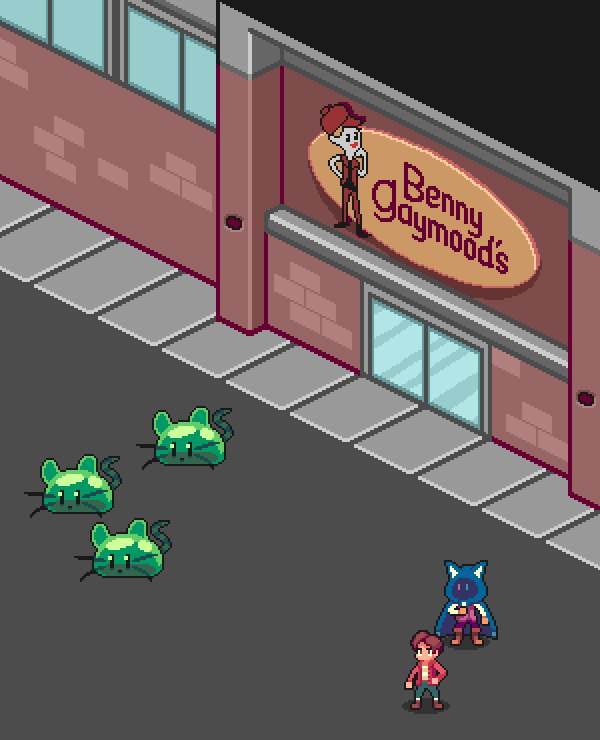
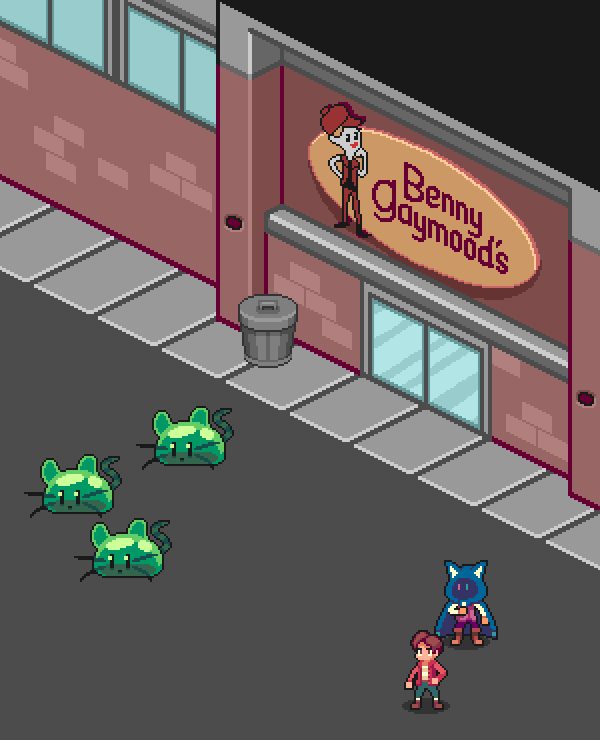
Hotfix and Game Retcon
Adapted some UI features and lines from Webgame 0 to fit lore, and added a trashcan in front of Benny Gaymood's.

Changed region(s): [[0.39, 0.373, 0.54, 0.4973]]

diff --git a/web/apartment/game.html b/web/apartment/game.html
@@ -257,6 +257,9 @@ div .glitch {
 
 
 
+
+
+
 </style><script role="script" id="twine-user-script" type="text/twine-javascript">// TO STORE PERSISTANT VALUES: <<run setup.saveState()>>
 // TO RETRIEVE STORED VALUES: <<set $store to setup.loadMemory#()>>
 
@@ -305,13 +308,17 @@ setup.eraseAll = function () {
 
 
 
+
+
+
 </script><tw-passagedata pid="1" name="EE_Entrance" tags="" position="550,350" size="100,100">&lt;&lt;set $location = passage()&gt;&gt;\
 You &lt;i&gt;assume&lt;/i&gt; you&#39;re standing in an apartment entryway. Unfortunately, it&#39;s too dark in here to make out much detail. To the left is a cramped-looking &lt;&lt;if $noLiving&gt;&gt;&lt;span class=&quot;glitch&quot;&gt;[[&lt;ERROR:NULL_REFERENCE&gt;|NoLiving]]&lt;/span&gt;&lt;&lt;else&gt;&gt;[[&lt;WARP:EE_Living_Room&gt;|EE_Living_Room]]&lt;&lt;/if&gt;&gt;, and to the right a messy &lt;&lt;if $noKitchen&gt;&gt;&lt;span class=&quot;glitch&quot;&gt;[[&lt;ERROR:NULL_REFERENCE&gt;|NoKitchen]]&lt;/span&gt;&lt;&lt;else&gt;&gt;[[&lt;WARP:EE_Kitchen&gt;|EE_Kitchen]]&lt;&lt;/if&gt;&gt;.
 
-Some distance ahead, you can make out the faint outline of a &lt;&lt;if $noHall&gt;&gt;&lt;span class=&quot;glitch&quot;&gt;[[&lt;ERROR:NULL_REFERENCE&gt;|NoHall]]&lt;/span&gt;&lt;&lt;else&gt;&gt;[[&lt;WARP:EE_Dark_Hallway&gt;|EE_Dark_Hallway]]&lt;&lt;/if&gt;&gt;. The &lt;&lt;if $yesExit&gt;&gt;[[&lt;WARP:EE_Exit&gt;|EE_Exit]]&lt;&lt;else&gt;&gt;&lt;span class=&quot;glitch&quot;&gt;[[&lt;ERROR:NULL_REFERENCE&gt;|NoExit]]&lt;/span&gt;&lt;&lt;/if&gt;&gt; is behind you.</tw-passagedata><tw-passagedata pid="2" name="StoryCaption" tags="" position="100,200" size="100,100">Crawl Level: -0
-Crawl State: Explore
+Some distance ahead, you can make out the faint outline of a &lt;&lt;if $noHall&gt;&gt;&lt;span class=&quot;glitch&quot;&gt;[[&lt;ERROR:NULL_REFERENCE&gt;|NoHall]]&lt;/span&gt;&lt;&lt;else&gt;&gt;[[&lt;WARP:EE_Dark_Hallway&gt;|EE_Dark_Hallway]]&lt;&lt;/if&gt;&gt;. The &lt;&lt;if $yesExit&gt;&gt;[[&lt;WARP:EE_Exit&gt;|EE_Exit]]&lt;&lt;else&gt;&gt;&lt;span class=&quot;glitch&quot;&gt;[[&lt;ERROR:NULL_REFERENCE&gt;|NoExit]]&lt;/span&gt;&lt;&lt;/if&gt;&gt; is behind you.</tw-passagedata><tw-passagedata pid="2" name="StoryCaption" tags="" position="100,200" size="100,100">Strytlr: Mystery Box
+State: Explore
 Pawn: &lt;&lt;if $nameSet || $end&gt;&gt;&lt;&lt;print $memory.name&gt;&gt;&lt;&lt;else&gt;&gt;[[Undefined]]&lt;&lt;/if&gt;&gt;
 &lt;hr&gt;
+Crawl: Bigg_City
 Scene: BCB_Floor_2
 Area: Apartment_EE
 Zone: &lt;&lt;if $end&gt;&gt;&lt;span class=&quot;glitch&quot;&gt;[[BAD_ZONE_ID|Questions]]&lt;/span&gt;&lt;&lt;elseif $nameSet&gt;&gt;BAD_ZONE_ID&lt;&lt;elseif ndef $location || $locationNull&gt;&gt;&lt;&lt;set $location to &quot;BAD_ZONE_ID&quot;&gt;&gt;&lt;span class=&quot;glitch&quot;&gt;[[BAD_ZONE_ID]]&lt;/span&gt;
@@ -1129,8 +1136,9 @@ Edit Memory Reset? (&lt;&lt;print $memory.reset&gt;&gt;)
 &lt;&lt;/if&gt;&gt;\</tw-passagedata><tw-passagedata pid="45" name="Ask Where" tags="" position="700,1250" size="100,100">&lt;span class=&quot;error&quot;&gt;Well, this seems to be an apartment.&lt;/span&gt;
 &lt;span class=&quot;error&quot;&gt;Just look to your left.&lt;/span&gt;
 
+&lt;span class=&quot;error&quot;&gt;The Crawl? Bigg City.&lt;/span&gt;
 &lt;span class=&quot;error&quot;&gt;The Scene? Bigg City Bungalows. Floor 2.&lt;/span&gt;
-&lt;span class=&quot;error&quot;&gt;The Zone? Apartment EE.&lt;/span&gt;
+&lt;span class=&quot;error&quot;&gt;The Area? Apartment EE.&lt;/span&gt;
 
 &lt;span class=&quot;error&quot;&gt;To my knowledge, back in The Crawl...&lt;/span&gt;
 &lt;span class=&quot;error&quot;&gt;There isn&#39;t actually a Floor E to this building?&lt;/span&gt;
